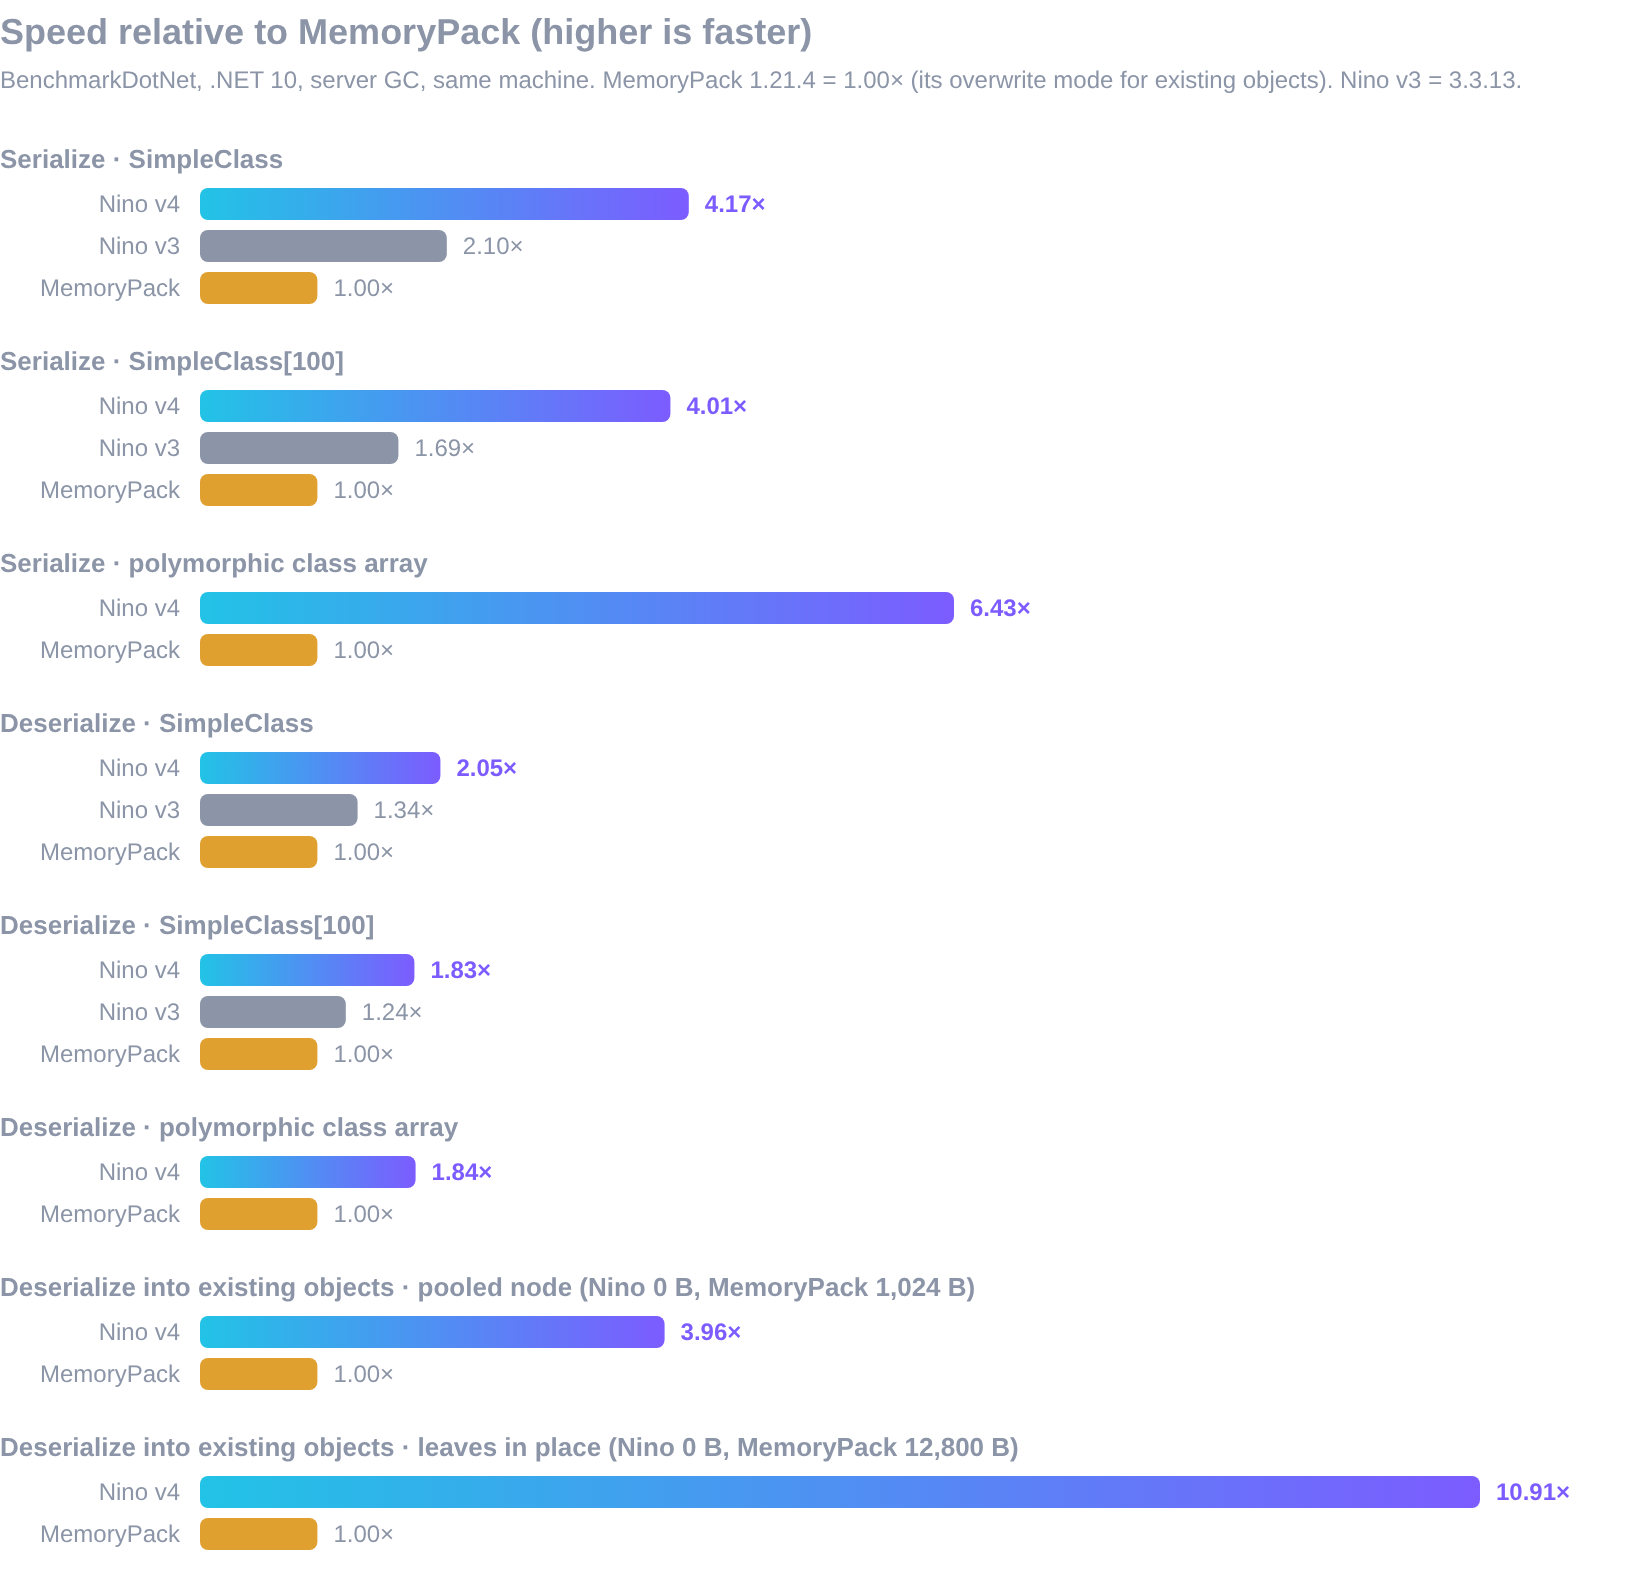
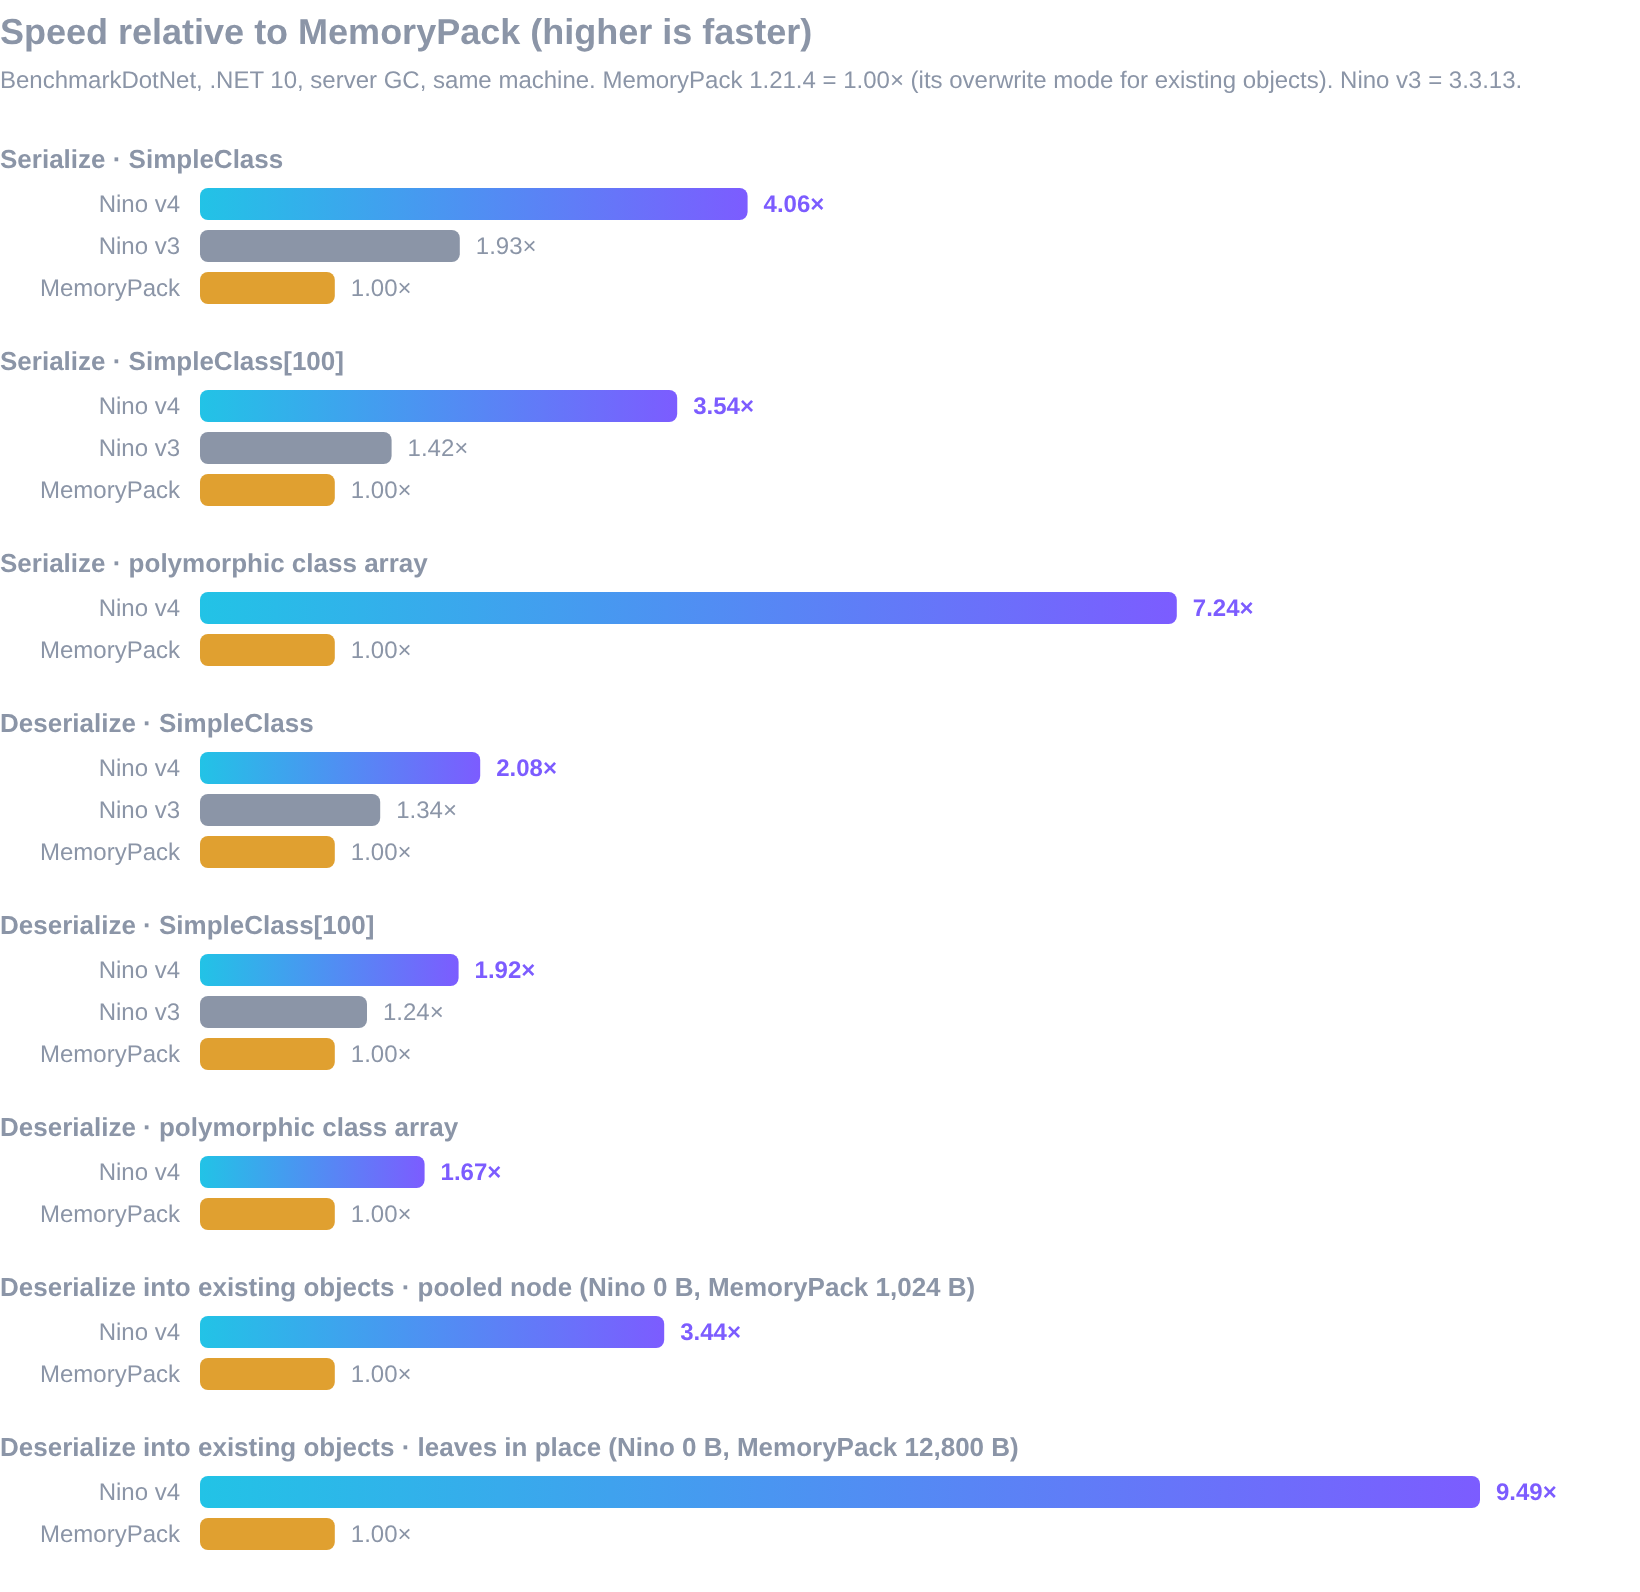
docs(benchmarks): update README numbers for v4.0.0-rc.9

diff --git a/docs/v4-benchmarks.md b/docs/v4-benchmarks.md
@@ -56,7 +56,7 @@ and keeps every serializer's run of a case on one. v3 is Nino 3.3.13 from nuget.
 the same `SimpleTest` (same data, same attributes), each half (serialize, deserialize) on the runner of the same v4 cases
 directly before them; it has no
 polymorphic, pooling, reference, version-tolerant or fixed-size benchmarks. These tables come from
-<!--bench:doc.source-->the performance report of [v4.0.0-rc.8](https://github.com/JasonXuDeveloper/Nino/releases/tag/v4.0.0-rc.8): BenchmarkDotNet 0.15.8, .NET 10.0.14, AMD EPYC 7763 2.72 GHz; v3 3.3.13 from NuGet ran directly before v4 on the same machine<!--/bench-->.
+<!--bench:doc.source-->the performance report of [v4.0.0-rc.9](https://github.com/JasonXuDeveloper/Nino/releases/tag/v4.0.0-rc.9): BenchmarkDotNet 0.15.8, .NET 10.0.14, Intel Xeon 6973P-C 3.54 GHz; v3 3.3.13 from NuGet ran directly before v4 on the same machine<!--/bench-->.
 
 Differences under 5% are reported as on par: MemoryPack runs in both sessions, and its two times show how much the
 runner moved. A time under 1 ns (about three clock cycles) cannot be told apart from another: reading a 40-byte struct
@@ -76,14 +76,14 @@ seeded, so every run serializes the same values.
 <!--bench:doc.table.serialize-->
 | Case | v4 | MemoryPack | MessagePack | protobuf-net | v3 | v4 vs MemoryPack | v4 vs v3 |
 |---|---:|---:|---:|---:|---:|---:|---:|
-| `SimpleClass` | 93.6 ns | 390 ns | 1.11 µs | 3.78 µs | 185 ns | **4.17× faster** | **1.98× faster** |
-| `SimpleClass[100]` | 10.1 µs | 40.7 µs | 112 µs | 372 µs | 24.1 µs | **4.01× faster** | **2.37× faster** |
-| Polymorphic class | 4.61 µs | 24.2 µs | 113 µs | 641 µs | — | **5.24× faster** | — |
-| Polymorphic class array | 39.1 µs | 251 µs | 750 µs | 3.76 ms | — | **6.43× faster** | — |
-| Polymorphic `Foo[]` | 4.83 µs | 30.3 µs | 101 µs | 649 µs | — | **6.27× faster** | — |
-| `SimpleStruct` (`int` + `DateTime`) | 4.52 ns | 5.11 ns | 57.8 ns | 158 ns | 3.46 ns | **1.13× faster** | — |
-| `SimpleStruct[100]` | 18.3 ns | 22.2 ns | 3.56 µs | 10.3 µs | 22.3 ns | **1.21× faster** | **1.22× faster** |
-| `Vector4[10000]` | 3.26 µs | 3.27 µs | 165 µs | 606 µs | 3.31 µs | on par | on par |
+| `SimpleClass` | 56.8 ns | 231 ns | 555 ns | 2.55 µs | 120 ns | **4.06× faster** | **2.11× faster** |
+| `SimpleClass[100]` | 6.58 µs | 23.3 µs | 55.5 µs | 268 µs | 16.4 µs | **3.54× faster** | **2.49× faster** |
+| Polymorphic class | 3.30 µs | 16.1 µs | 75.0 µs | 403 µs | — | **4.88× faster** | — |
+| Polymorphic class array | 27.0 µs | 196 µs | 530 µs | 2.47 ms | — | **7.24× faster** | — |
+| Polymorphic `Foo[]` | 3.74 µs | 15.8 µs | 76.0 µs | 395 µs | — | **4.21× faster** | — |
+| `SimpleStruct` (`int` + `DateTime`) | 1.16 ns | 2.87 ns | 35.0 ns | 92.5 ns | 1.59 ns | **2.48× faster** | **1.37× faster** |
+| `SimpleStruct[100]` | 11.5 ns | 13.5 ns | 2.13 µs | 7.02 µs | 12.0 ns | **1.18× faster** | on par |
+| `Vector4[10000]` | 3.38 µs | 3.31 µs | 90.9 µs | 413 µs | 3.35 µs | on par | on par |
 <!--/bench-->
 
 `SimpleStruct` is declared with `[StructLayout(LayoutKind.Sequential, Pack = 4)]`: 12 bytes, no padding, so every
@@ -98,14 +98,14 @@ earlier run with the padded struct, that masked copy made `SimpleStruct[100]` se
 <!--bench:doc.table.deserialize-->
 | Case | v4 | MemoryPack | MessagePack | protobuf-net | v3 | v4 vs MemoryPack | v4 vs v3 |
 |---|---:|---:|---:|---:|---:|---:|---:|
-| `SimpleClass` | 393 ns | 805 ns | 1.86 µs | 6.43 µs | 599 ns | **2.05× faster** | **1.53× faster** |
-| `SimpleClass[100]` | 44.2 µs | 80.8 µs | 201 µs | 630 µs | 65.0 µs | **1.83× faster** | **1.47× faster** |
-| Polymorphic class | 14.2 µs | 28.2 µs | 196 µs | 780 µs | — | **1.99× faster** | — |
-| Polymorphic class array | 165 µs | 302 µs | 1.47 ms | 5.25 ms | — | **1.84× faster** | — |
-| Polymorphic `Foo[]` | 13.4 µs | 29.7 µs | 190 µs | 771 µs | — | **2.21× faster** | — |
-| `SimpleStruct` (`int` + `DateTime`) | < 1 ns | 1.45 ns | 77.6 ns | 227 ns | < 1 ns | **faster** (too fast to measure) | on par |
-| `SimpleStruct[100]` | 85.8 ns | 102 ns | 3.51 µs | 10.3 µs | 92.4 ns | **1.19× faster** | **1.08× faster** |
-| `Vector4[10000]` | 124 µs | 125 µs | 391 µs | 715 µs | 127 µs | on par | on par |
+| `SimpleClass` | 340 ns | 706 ns | 1.76 µs | 6.26 µs | 528 ns | **2.08× faster** | **1.55× faster** |
+| `SimpleClass[100]` | 36.0 µs | 69.1 µs | 191 µs | 602 µs | 55.8 µs | **1.92× faster** | **1.55× faster** |
+| Polymorphic class | 9.16 µs | 16.5 µs | 118 µs | 483 µs | — | **1.80× faster** | — |
+| Polymorphic class array | 117 µs | 195 µs | 891 µs | 3.18 ms | — | **1.67× faster** | — |
+| Polymorphic `Foo[]` | 8.52 µs | 15.4 µs | 118 µs | 487 µs | — | **1.81× faster** | — |
+| `SimpleStruct` (`int` + `DateTime`) | < 1 ns | 1.40 ns | 77.2 ns | 231 ns | < 1 ns | **faster** (too fast to measure) | on par |
+| `SimpleStruct[100]` | 81.7 ns | 96.5 ns | 3.41 µs | 10.1 µs | 81.9 ns | **1.18× faster** | on par |
+| `Vector4[10000]` | 120 µs | 119 µs | 373 µs | 719 µs | 118 µs | on par | on par |
 <!--/bench-->
 
 
@@ -125,10 +125,10 @@ Nino can deserialize into an existing object graph (reuse deserialization) and t
 <!--bench:doc.table.reuse-->
 | Case | Nino new | Nino reusing | MemoryPack new | MemoryPack overwrite | Nino reusing vs overwrite |
 |---|---:|---:|---:|---:|---:|
-| Pooled node | 475 ns | **157 ns** (0 B) | 688 ns | 622 ns (1,024 B) | **3.96× faster** |
-| Pooled leaves, in place | 3.04 µs | **470 ns** (0 B) | 3.87 µs | 5.12 µs (12,800 B) | **10.91× faster** |
-| Pooled leaves, pooled elements | 3.04 µs | **3.16 µs** (856 B) | 3.87 µs | 5.12 µs (12,800 B) | **1.62× faster** |
-| Pooled class | 382 ns | **232 ns** (0 B) | 733 ns | 608 ns (1,080 B) | **2.62× faster** |
+| Pooled node | 282 ns | **75.3 ns** (0 B) | 316 ns | 259 ns (1,024 B) | **3.44× faster** |
+| Pooled leaves, in place | 1.76 µs | **273 ns** (0 B) | 2.16 µs | 2.59 µs (12,800 B) | **9.49× faster** |
+| Pooled leaves, pooled elements | 1.76 µs | **1.46 µs** (0 B) | 2.16 µs | 2.59 µs (12,800 B) | **1.78× faster** |
+| Pooled class | 287 ns | **145 ns** (0 B) | 486 ns | 405 ns (1,080 B) | **2.79× faster** |
 <!--/bench-->
 
 The "new" columns allocate the same bytes in both serializers. Reusing is where v4 pulls away: in-place reuse
@@ -156,19 +156,19 @@ MemoryPack writes and parses the zone's whole serialized string on every call.
 <!--bench:doc.table.extra-->
 | Case | Serialize v4 | MemoryPack | v4 vs MemoryPack | Deserialize v4 | MemoryPack | v4 vs MemoryPack |
 |---|---:|---:|---:|---:|---:|---:|
-| Object graph, 200 tracked nodes | 5.99 µs | 30.0 µs | **5.01× faster** | 6.10 µs | 20.1 µs | **3.30× faster** |
-| `TolerantClass` | 101 ns | 515 ns | **5.10× faster** | 371 ns | 823 ns | **2.22× faster** |
-| `TolerantClass[100]` | 10.8 µs | 50.4 µs | **4.68× faster** | 42.2 µs | 84.6 µs | **2.00× faster** |
-| `FixedStruct` | 9.30 ns | 9.61 ns | on par | < 1 ns | < 1 ns | on par |
-| `FixedClass` | 10.2 ns | 26.3 ns | **2.57× faster** | 10.4 ns | 22.6 ns | **2.17× faster** |
-| `FixedClass[100]` | 467 ns | 1.82 µs | **3.90× faster** | 1.16 µs | 1.39 µs | **1.20× faster** |
-| `List<Player>`, 100 | 6.37 µs | 19.7 µs | **3.09× faster** | 25.4 µs | 36.6 µs | **1.44× faster** |
-| `List<Order>`, 100 | 4.50 µs | 11.4 µs | **2.53× faster** | 20.6 µs | 27.4 µs | **1.33× faster** |
-| `List<Shape>`, 1,000 (abstract base) | 1.03 µs | 12.2 µs | **11.78× faster** | 6.29 µs | 8.70 µs | **1.38× faster** |
-| `TreeNode`, 1,365 nodes | 6.95 µs | 12.0 µs | **1.73× faster** | 29.9 µs | 36.5 µs | **1.22× faster** |
-| `InventoryItem[1000]` (padded struct) | 40.6 ns | 43.5 ns | **1.07× faster** | 207 ns | 216 ns | on par |
-| `Waypoint[1000]` (fixed size, not raw) | 166 ns | 147 ns | — | 547 ns | 640 ns | **1.17× faster** |
-| `Dictionary<string, string>`, 1,000 | 4.97 µs | 20.6 µs | **4.14× faster** | 20.4 µs | 32.5 µs | **1.59× faster** |
+| Object graph, 200 tracked nodes | 3.49 µs | 18.4 µs | **5.29× faster** | 4.56 µs | 13.8 µs | **3.02× faster** |
+| `TolerantClass` | 99.7 ns | 525 ns | **5.27× faster** | 349 ns | 769 ns | **2.21× faster** |
+| `TolerantClass[100]` | 10.7 µs | 50.2 µs | **4.68× faster** | 37.3 µs | 77.6 µs | **2.08× faster** |
+| `FixedStruct` | 5.08 ns | 5.02 ns | on par | < 1 ns | < 1 ns | on par |
+| `FixedClass` | 4.86 ns | 12.7 ns | **2.62× faster** | 4.83 ns | 10.6 ns | **2.20× faster** |
+| `FixedClass[100]` | 281 ns | 996 ns | **3.54× faster** | 692 ns | 994 ns | **1.44× faster** |
+| `List<Player>`, 100 | 4.10 µs | 14.3 µs | **3.49× faster** | 17.7 µs | 21.9 µs | **1.23× faster** |
+| `List<Order>`, 100 | 3.05 µs | 8.27 µs | **2.71× faster** | 12.8 µs | 16.5 µs | **1.29× faster** |
+| `List<Shape>`, 1,000 (abstract base) | 963 ns | 10.9 µs | **11.31× faster** | 6.15 µs | 8.47 µs | **1.38× faster** |
+| `TreeNode`, 1,365 nodes | 6.32 µs | 11.0 µs | **1.74× faster** | 26.5 µs | 33.0 µs | **1.25× faster** |
+| `InventoryItem[1000]` (padded struct) | 38.3 ns | 40.1 ns | on par | 178 ns | 199 ns | **1.11× faster** |
+| `Waypoint[1000]` (fixed size, not raw) | 150 ns | 134 ns | — | 502 ns | 593 ns | **1.18× faster** |
+| `Dictionary<string, string>`, 1,000 | 4.47 µs | 23.4 µs | **5.23× faster** | 17.1 µs | 29.8 µs | **1.75× faster** |
 <!--/bench-->
 
 Deserializing `FixedStruct` is one 40-byte copy, about a clock cycle in both. Serializing it is an allocation

diff --git a/README.md b/README.md
@@ -28,8 +28,8 @@ For .NET, Unity, Godot and HybridCLR, with the same bytes on every platform and 
 
 ## Why Nino
 
-- **Fastest.** Up to **<!--bench:ser.max-->6.4<!--/bench-->× faster** serialization than MemoryPack, and up to
-  **<!--bench:reuse.inplace-->10.9<!--/bench-->× faster** deserialization into existing objects. [Benchmarks](#benchmarks)
+- **Fastest.** Up to **<!--bench:ser.max-->7.2<!--/bench-->× faster** serialization than MemoryPack, and up to
+  **<!--bench:reuse.inplace-->9.5<!--/bench-->× faster** deserialization into existing objects. [Benchmarks](#benchmarks)
 - **Safe on untrusted input.** Crafted bytes cannot crash the process, read past the input, allocate out of proportion
   or name a type to create; every invalid input throws one `NinoDataException`. [Untrusted data](https://nino.xgamedev.net/en/docs/v4/security)
 - **Zero allocation.** Serialize into an `IBufferWriter<byte>`, deserialize into existing or pooled objects: nothing
@@ -107,7 +107,7 @@ every page as Markdown (add `.md` to its URL).
   <img src="https://raw.githubusercontent.com/JasonXuDeveloper/Nino/main/docs/assets/benchmark.png" alt="Nino v4 vs Nino v3 vs MemoryPack: serialize and deserialize speed" width="760">
 </p>
 
-<sub>BenchmarkDotNet <!--bench:env.bdn-->0.15.8<!--/bench-->, <!--bench:env.runtime-->.NET 10.0.14<!--/bench-->, server GC, <!--bench:env.cpu-->AMD EPYC 7763 2.72 GHz<!--/bench-->; Nino v4 and MemoryPack 1.21.4 in one run, Nino 3.3.13 from NuGet <!--bench:v3.when-->directly before it<!--/bench--> on the same machine. Payloads are about the same size (`SimpleClass`: <!--bench:payload.v4-->1,069<!--/bench--> bytes in v4, 1,152 in v3, <!--bench:payload.memorypack-->1,148<!--/bench--> in MemoryPack). Every case and the method: [docs/v4-benchmarks.md](https://github.com/JasonXuDeveloper/Nino/blob/main/docs/v4-benchmarks.md); the notes of each release carry that release's numbers.</sub>
+<sub>BenchmarkDotNet <!--bench:env.bdn-->0.15.8<!--/bench-->, <!--bench:env.runtime-->.NET 10.0.14<!--/bench-->, server GC, <!--bench:env.cpu-->Intel Xeon 6973P-C 3.54 GHz<!--/bench-->; Nino v4 and MemoryPack 1.21.4 in one run, Nino 3.3.13 from NuGet <!--bench:v3.when-->directly before it<!--/bench--> on the same machine. Payloads are about the same size (`SimpleClass`: <!--bench:payload.v4-->1,069<!--/bench--> bytes in v4, 1,152 in v3, <!--bench:payload.memorypack-->1,148<!--/bench--> in MemoryPack). Every case and the method: [docs/v4-benchmarks.md](https://github.com/JasonXuDeveloper/Nino/blob/main/docs/v4-benchmarks.md); the notes of each release carry that release's numbers.</sub>
 
 Every case, Arm64, MessagePack and protobuf-net: [.NET benchmarks](https://nino.xgamedev.net/en/docs/v4/benchmarks);
 [Unity with Burst](https://nino.xgamedev.net/en/docs/v4/benchmarks-unity);
@@ -135,10 +135,10 @@ user files ([details](https://nino.xgamedev.net/en/docs/v4/vs-memorypack#untrust
 | | Nino v4 | MemoryPack 1.21.4 |
 |---|---|---|
 | Untrusted input | **built for it**: bounded allocation and stack, one exception type | trusted data only, per its README |
-| Serialize classes and polymorphic types | **<!--bench:ser.range-->4.0–6.4<!--/bench-->× faster** | |
-| Deserialize classes and polymorphic types | **<!--bench:deser.range-->1.8–2.2<!--/bench-->× faster** | |
+| Serialize classes and polymorphic types | **<!--bench:ser.range-->3.5–7.2<!--/bench-->× faster** | |
+| Deserialize classes and polymorphic types | **<!--bench:deser.range-->1.7–2.1<!--/bench-->× faster** | |
 | Raw struct arrays | at least on par without padding (a block copy in both); padding zeroed | padding copied as is, in the platform's layout |
-| Deserialize into existing objects | **0 B, up to <!--bench:reuse.inplace-->10.9<!--/bench-->× faster** (in place) | overwrite mode, allocates |
+| Deserialize into existing objects | **0 B, up to <!--bench:reuse.inplace-->9.5<!--/bench-->× faster** (in place) | overwrite mode, allocates |
 | Polymorphism | automatic type ids, any base class or interface, generic bases included | `[MemoryPackUnion]` tags you maintain, not on generic types |
 | Keyed members, reference tracking, object pools | ✅ | version tolerance and circular references, no pools |
 | Unity | ✅ 2022.3+, one OpenUPM package, `netstandard2.0` and `2.1` | ✅ 2022.3.12f1+, NuGetForUnity plus a git package, `netstandard2.1` |
@@ -155,8 +155,8 @@ v4 is a rewrite of the runtime and the generator. **Its binary format is not com
 
 | v4 vs v3 (3.3.13) | |
 |---|---|
-| Serialize | <!--bench:v3.ser-->**1.98× faster** (class), **2.37× faster** (class array), **1.22× faster** (struct array)<!--/bench--> |
-| Deserialize | <!--bench:v3.deser-->**1.53× faster** (class), **1.47× faster** (class array), on par (struct), **1.08× faster** (struct array)<!--/bench-->, while adding reference tracking, reuse deserialization and payload validation |
+| Serialize | <!--bench:v3.ser-->**2.11× faster** (class), **2.49× faster** (class array), **1.37× faster** (struct), on par (struct array)<!--/bench--> |
+| Deserialize | <!--bench:v3.deser-->**1.55× faster** (class), **1.55× faster** (class array), on par (struct), on par (struct array)<!--/bench-->, while adding reference tracking, reuse deserialization and payload validation |
 | Compiling the generated code | **51× faster** at 330 types (42.9 s → 0.84 s), **221× faster** at 1,100 types (462 s → 2.1 s) |
 | Running the generator | **3.1× faster**; after an edit, only that type is re-generated (**8.3× faster**) |
 | Generated code | **14× smaller** source, **5× smaller** IL |
